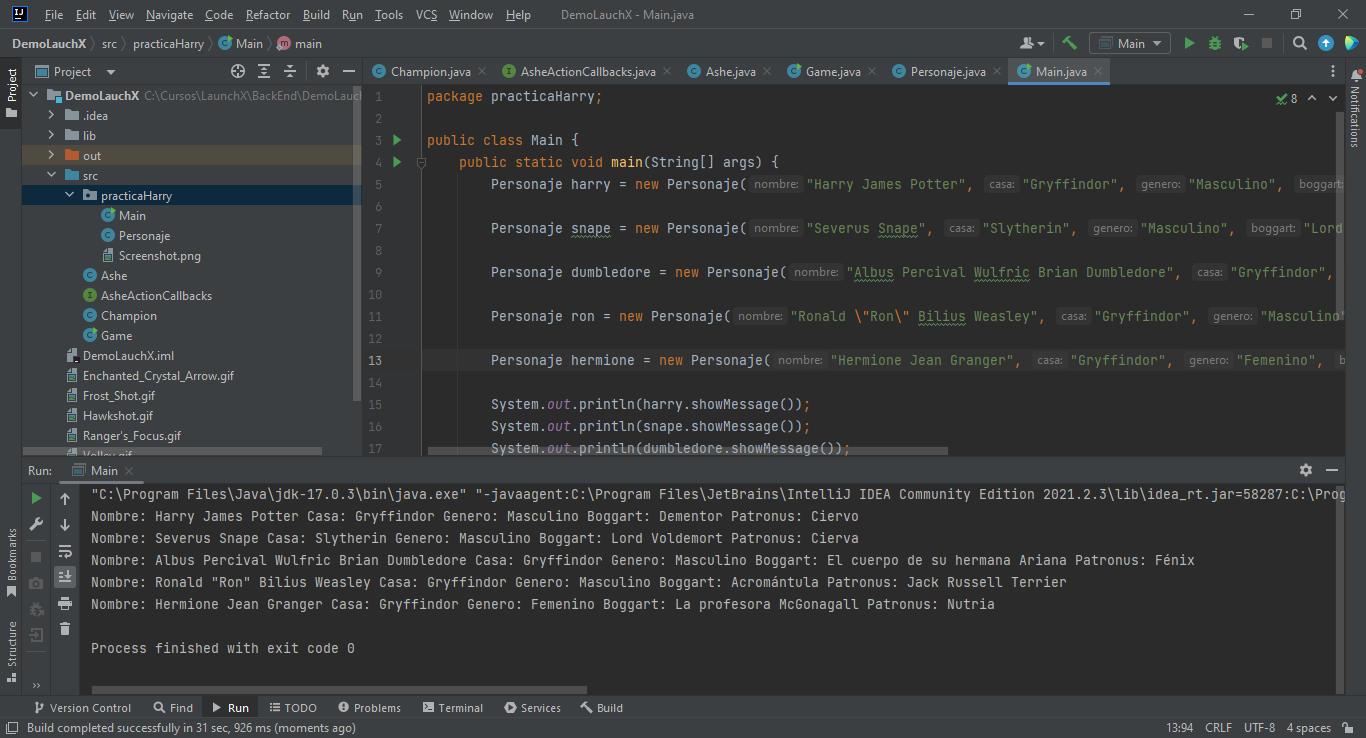
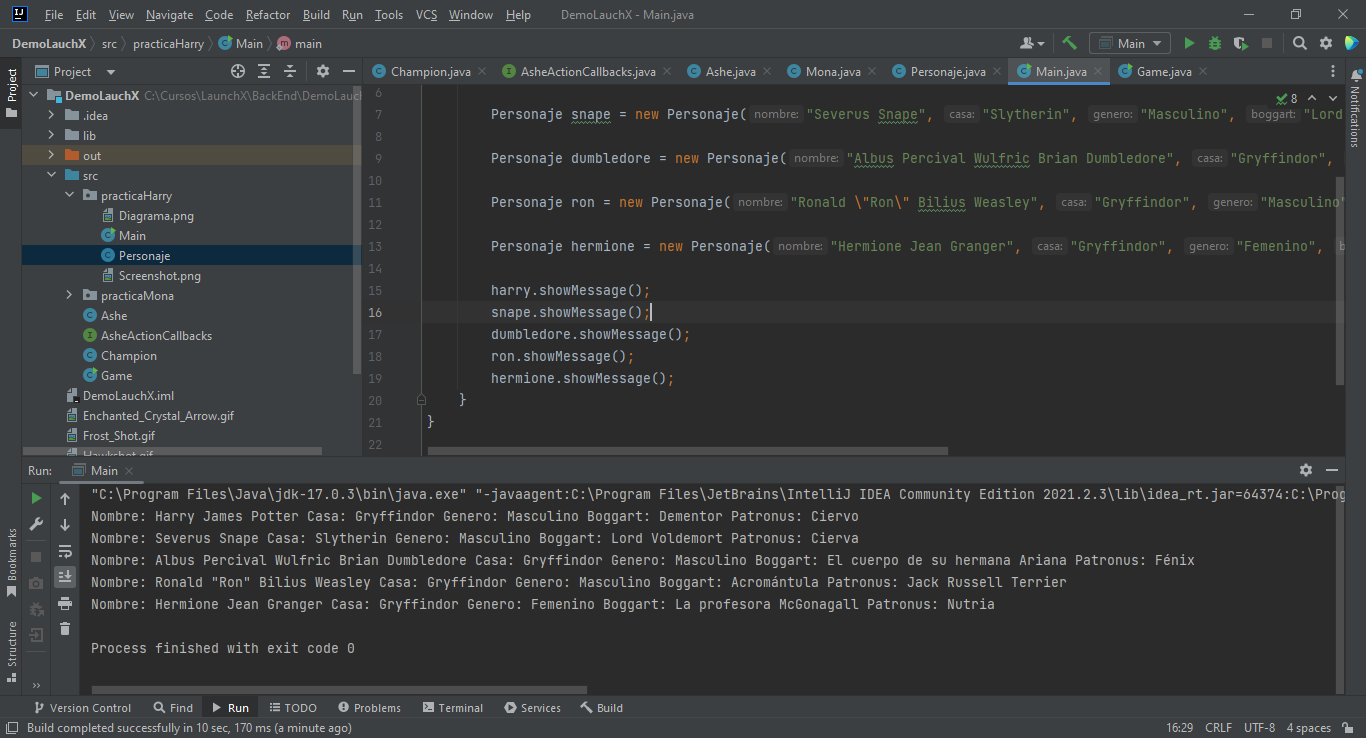
add: files

diff --git a/practicaHarry/Main.java b/practicaHarry/Main.java
@@ -12,10 +12,10 @@ public class Main {
 
         Personaje hermione = new Personaje("Hermione Jean Granger", "Gryffindor", "Femenino", "La profesora McGonagall", "Nutria");
 
-        System.out.println(harry.showMessage());
-        System.out.println(snape.showMessage());
-        System.out.println(dumbledore.showMessage());
-        System.out.println(ron.showMessage());
-        System.out.println(hermione.showMessage());
+        harry.showMessage();
+        snape.showMessage();
+        dumbledore.showMessage();
+        ron.showMessage();
+        hermione.showMessage();
     }
 }

diff --git a/practicaHarry/Personaje.java b/practicaHarry/Personaje.java
@@ -58,11 +58,11 @@ public class Personaje {
             return false;
     }
 
-    public String showMessage(){
-        return "Nombre: " + nombre +
+    void showMessage(){
+        System.out.println("Nombre: " + nombre +
                 " Casa: " + casa +
                 " Genero: " + genero +
                 " Boggart: " + boggart +
-                " Patronus: " + patronus;
+                " Patronus: " + patronus);
     }
 }
